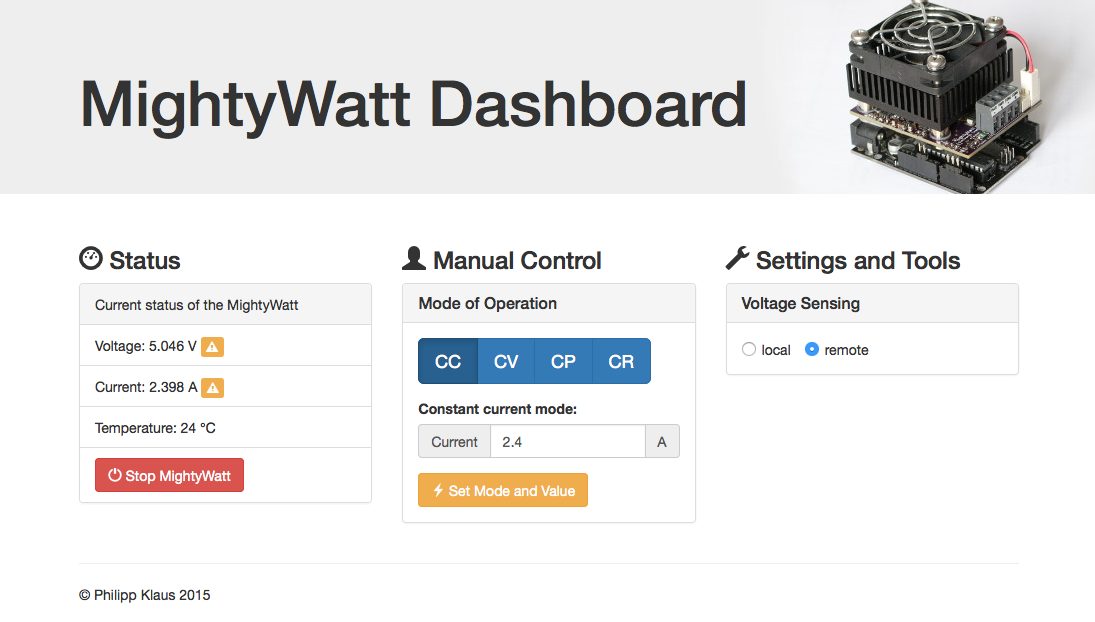
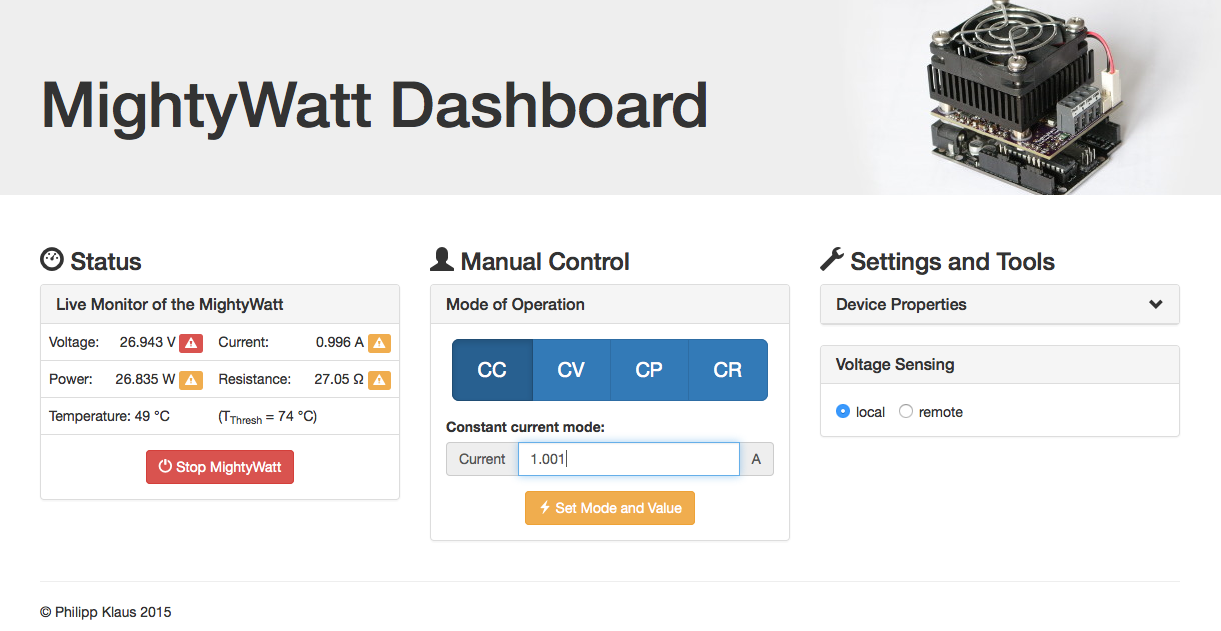
improving the web UI a lot

diff --git a/mightywatt/webapp/static/js/control.js b/mightywatt/webapp/static/js/control.js
@@ -27,7 +27,7 @@ function setProperties() {
     $("#properties-maxTemperature").text(data.MAX_TEMPERATURE);
     $("#properties-minTemperature").text(data.MIN_TEMPERATURE);
     $("#properties-maxPower").text(data.MAX_POWER);
-    $("#properties-dvmInputResistance").text(data.DVM_INPUT_RESISTANCE);
+    $("#properties-dvmInputResistance").text(data.DVM_INPUT_RESISTANCE/1000. + 'k');
     $("#properties-maxVdac").text(data.maxVdac);
     $("#properties-maxVadc").text(data.maxVadc);
     $("#properties-temperatureThreshold").text(data.temperatureThreshold);
@@ -41,38 +41,83 @@ function updateStatus() {
     // voltage
     $("#voltage").text(data.voltage.toFixed(3));
     if (data.voltage > 0.9 && data.voltage < 26.) {
-        $("#voltageWarning").removeClass('hidden');
-        $("#voltageDanger").addClass('hidden');
-    } else if (data.voltage > 26. ) {
-      $("#voltageWarning").addClass('hidden');
-      $("#voltageDanger").removeClass('hidden');
+      $("#voltageWarning").addClass('label-warning');
+      $("#voltageWarning").removeClass('label-danger');
+      $("#voltageWarning").removeClass('invisible');
+    } else if (data.voltage >= 26. ) {
+      $("#voltageWarning").addClass('label-danger');
+      $("#voltageWarning").removeClass('label-warning');
+      $("#voltageWarning").removeClass('invisible');
     } else {
-      $("#voltageWarning").addClass('hidden');
-      $("#voltageDanger").addClass('hidden');
+      $("#voltageWarning").addClass('invisible');
     }
     // current
     $("#current").text(data.current.toFixed(3));
     if (data.current > 0.01 && data.current < 8.) {
-      $("#currentWarning").removeClass('hidden');
-      $("#currentDanger").addClass('hidden');
-    } else if (data.current > 8.) {
-      $("#currentWarning").addClass('hidden');
-      $("#currentDanger").removeClass('hidden');
+      $("#currentWarning").addClass('label-warning');
+      $("#currentWarning").removeClass('label-danger');
+      $("#currentWarning").removeClass('invisible');
+    } else if (data.current >= 8.) {
+      $("#currentWarning").addClass('label-danger');
+      $("#currentWarning").removeClass('label-warning');
+      $("#currentWarning").removeClass('invisible');
     } else {
-      $("#currentWarning").addClass('hidden');
-      $("#currentDanger").addClass('hidden');
+      $("#currentWarning").addClass('invisible');
+    }
+    // power
+    $("#power").text(data.power.toFixed(3));
+    if (data.power > 0.01 && data.power < 50.) {
+      $("#powerWarning").addClass('label-warning');
+      $("#powerWarning").removeClass('label-danger');
+      $("#powerWarning").removeClass('invisible');
+    } else if (data.power >= 50.) {
+      $("#powerWarning").addClass('label-danger');
+      $("#powerWarning").removeClass('label-warning');
+      $("#powerWarning").removeClass('invisible');
+    } else {
+      $("#powerWarning").addClass('invisible');
+    }
+    // resistance
+    if (data.resistance > 100000)
+      $("#resistance").text('' + data.resistance/1000 + 'k');
+    else if (data.resistance > 1000)
+      $("#resistance").text((data.resistance/1000).toPrecision(4) + 'k');
+    else if (data.resistance < 1.0)
+      $("#resistance").text(data.resistance.toFixed(3));
+    else
+      $("#resistance").text(data.resistance.toPrecision(4));
+    if (data.resistance >= 1.0 && data.resistance < 10000) {
+      $("#resistanceWarning").addClass('label-warning');
+      $("#resistanceWarning").removeClass('label-danger');
+      $("#resistanceWarning").removeClass('invisible');
+    } else if (data.resistance < 1.) {
+      $("#resistanceWarning").addClass('label-danger');
+      $("#resistanceWarning").removeClass('label-warning');
+      $("#resistanceWarning").removeClass('invisible');
+    } else {
+      $("#resistanceWarning").addClass('invisible');
     }
     // temperature
     $("#temperature").text(data.temperature);
     if (data.temperature > 70 && data.temperature < 100) {
-      $("#temperatureWarning").removeClass('hidden');
-      $("#temperatureDanger").addClass('hidden');
+      $("#temperatureWarning").addClass('label-warning');
+      $("#temperatureWarning").removeClass('label-danger');
+      $("#temperatureWarning").removeClass('invisible');
     } else if (data.voltage > 100. ) {
-      $("#temperatureWarning").addClass('hidden');
-      $("#temperatureDanger").removeClass('hidden');
+      $("#temperatureWarning").addClass('label-danger');
+      $("#temperatureWarning").removeClass('label-warning');
+      $("#temperatureWarning").removeClass('invisible');
     } else {
-      $("#temperatureWarning").addClass('hidden');
-      $("#temperatureDanger").addClass('hidden');
+      $("#temperatureWarning").addClass('invisible');
+    }
+    // temperatureThreshold
+    $("#temperatureThreshold").text(data.temperatureThreshold);
+    // remote / local voltage sensing
+    if (data.remoteStatus && $('#localSensing')[0].checked) {
+      if (data.remoteStatus)
+        $('#remoteSensing')[0].checked = true;
+      else
+        $('#localSensing')[0].checked = true;
     }
   })
   .fail(function() { warning('Cannot get status update'); });

diff --git a/mightywatt/webapp/static/css/control.css b/mightywatt/webapp/static/css/control.css
@@ -18,5 +18,19 @@
 }
 
 .panel .table {
-    margin-bottom: 0;
+  margin-bottom: 0;
+}
+
+.numeric-cell {
+  text-align: right;
+  width: 40%;
+}
+
+#liveMonitor td {
+}
+
+.btn-xl {
+    padding: 16px 25px;
+    font-size: 20px;
+    border-radius: 7px;
 }
